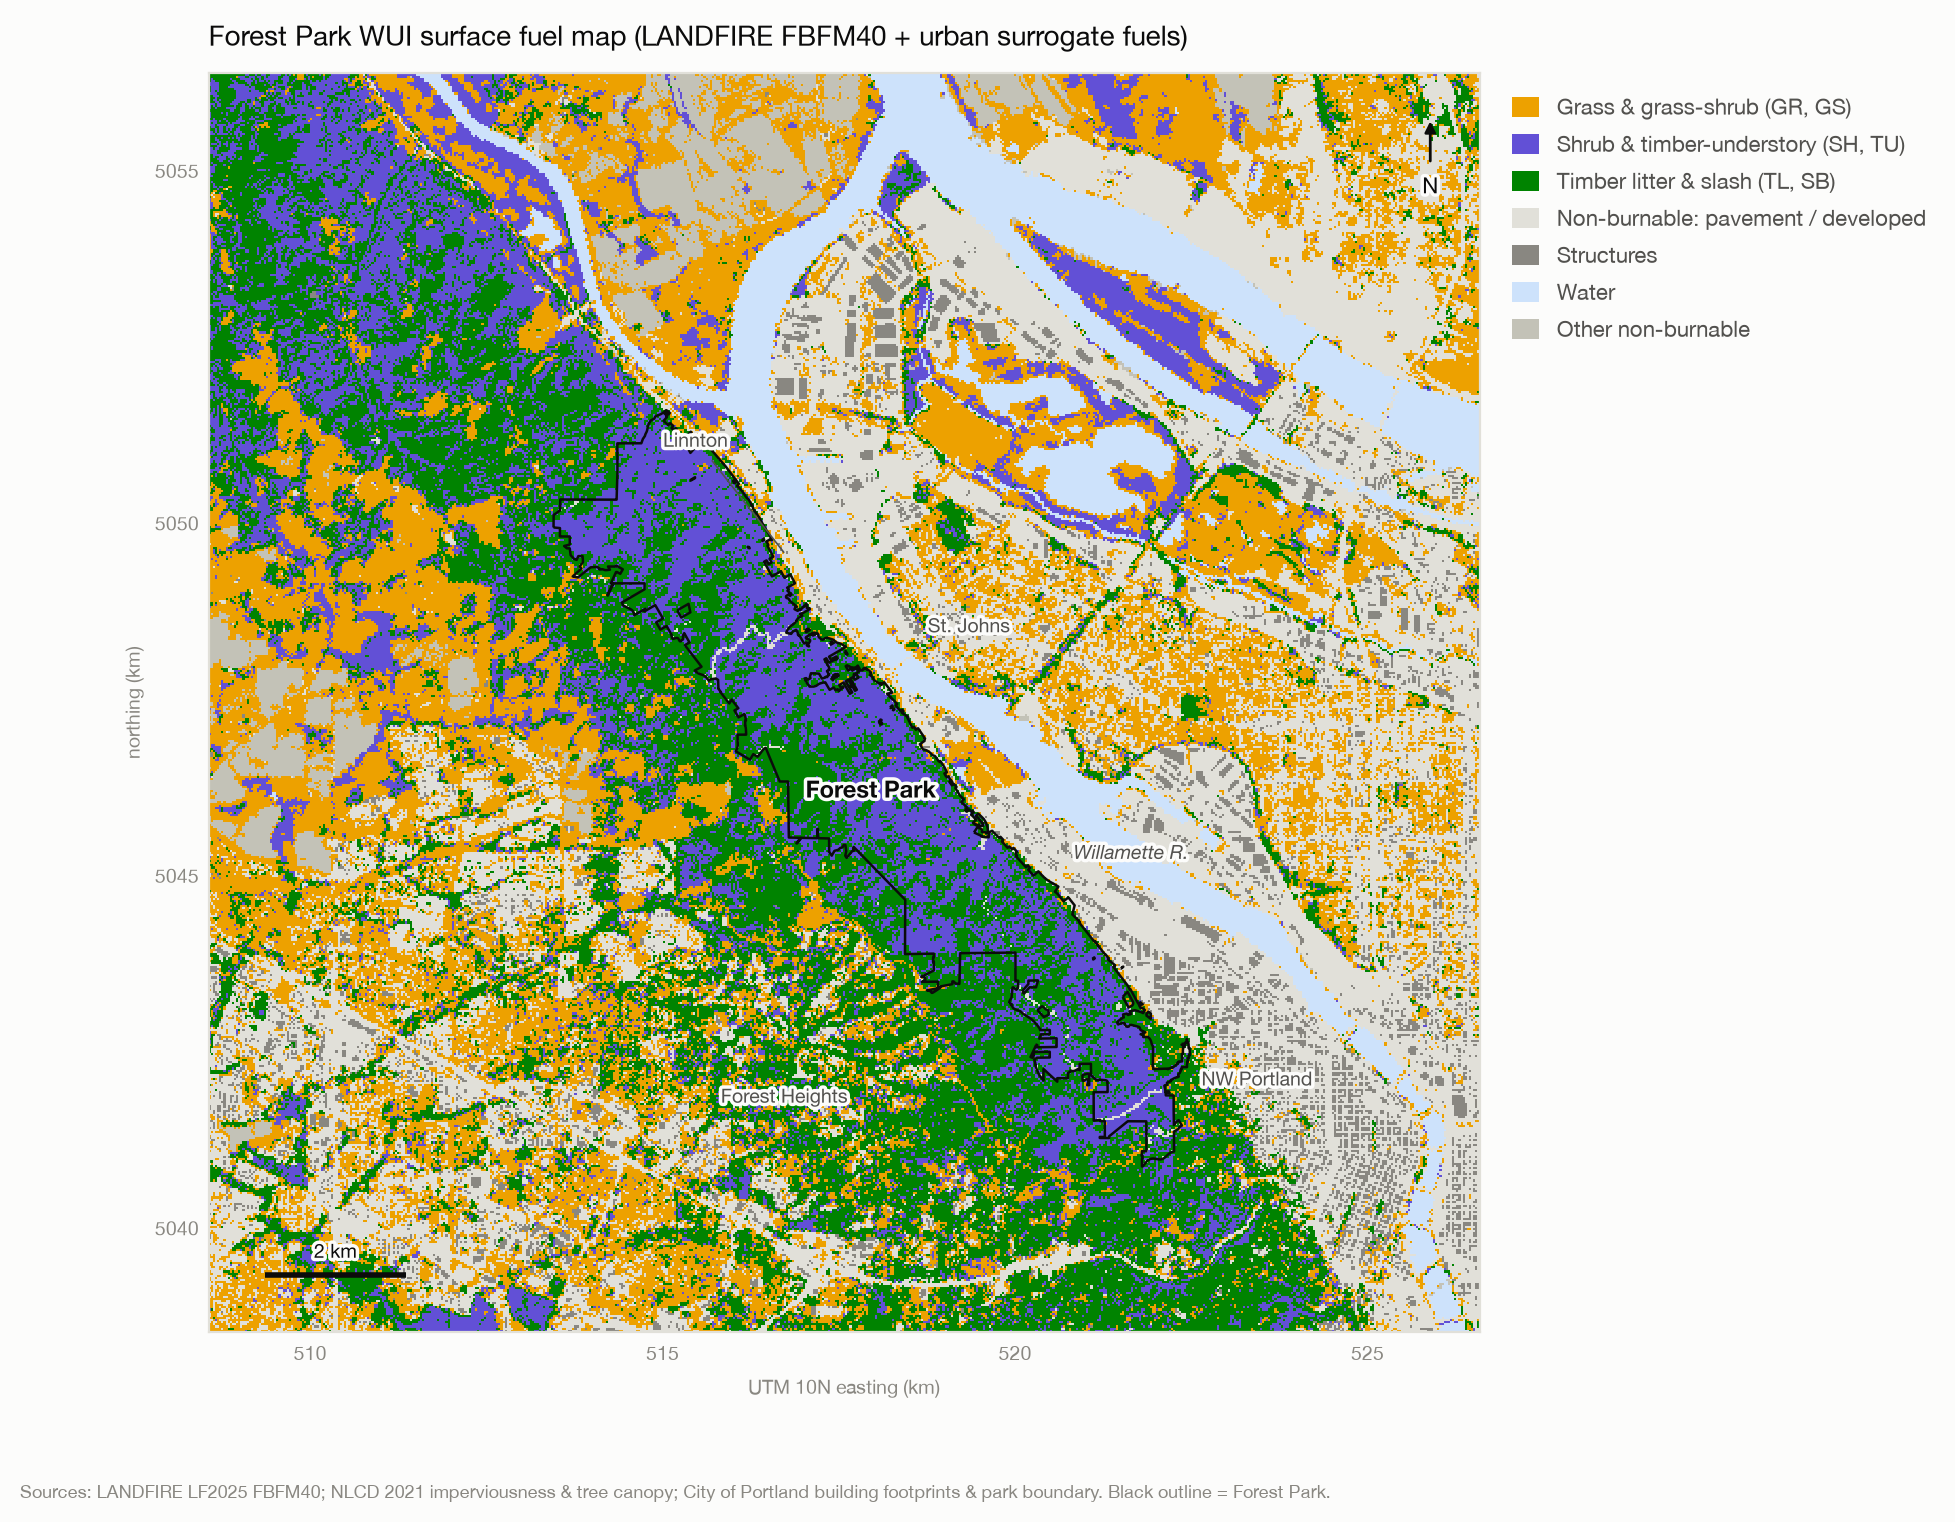
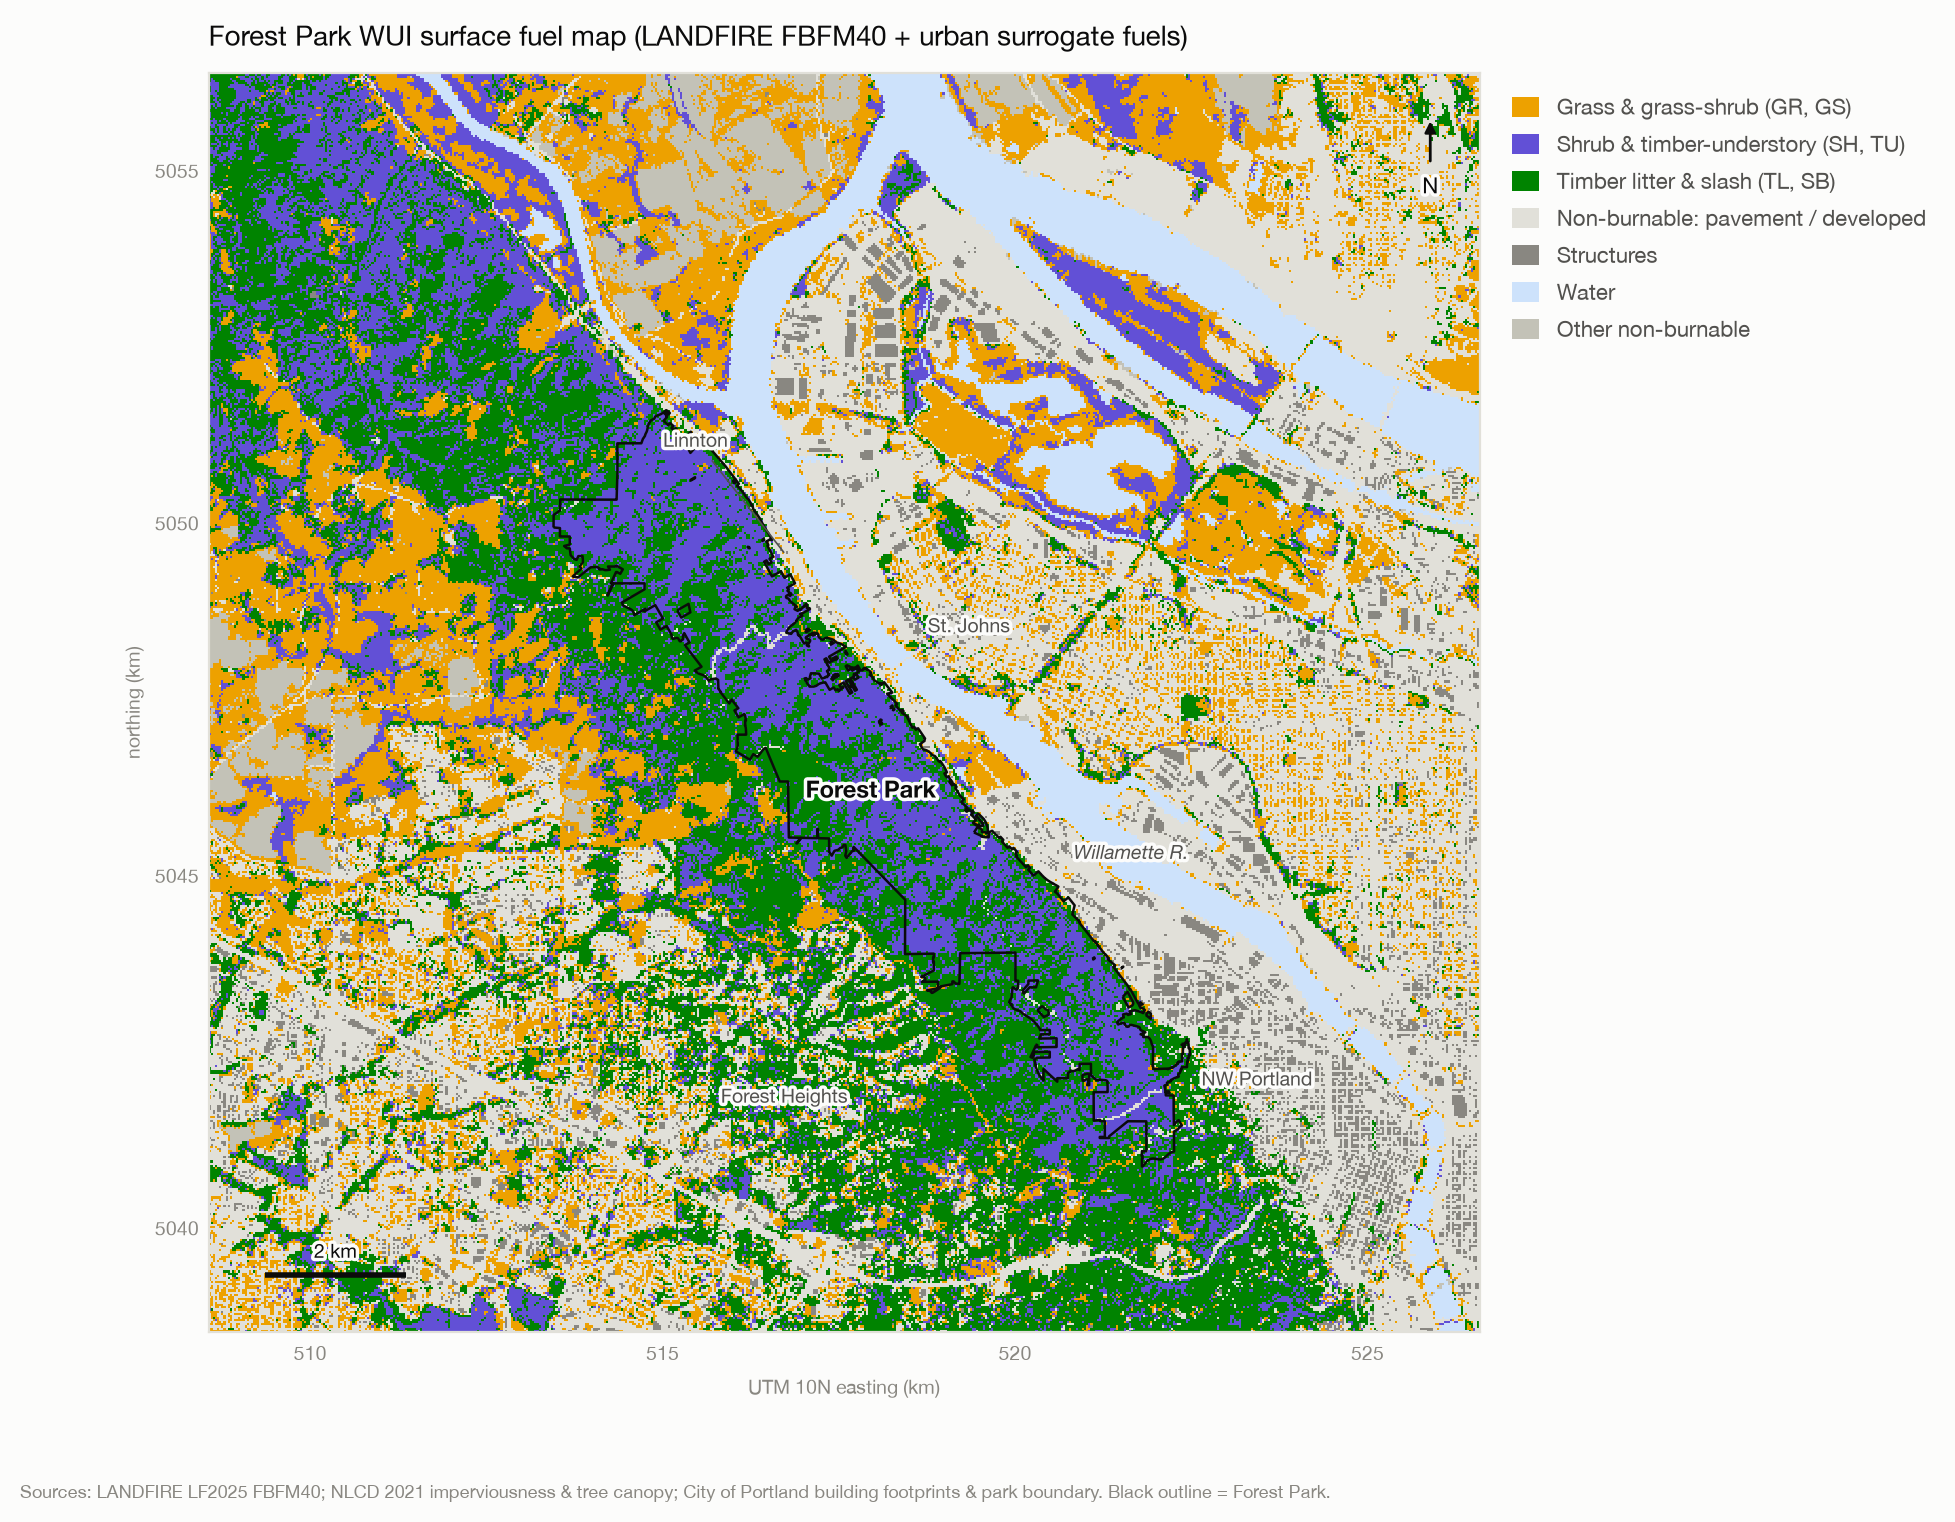
Forest Park Wildfires: fuel map v2 (road firebreaks, 10 m terrain) and progress log
- Open road cells (NLCD impervious descriptor) are now firebreaks instead of
  grass corridors; new before/after figure.
- USGS 3DEP elevation and slope figure; WRF-SFIRE ZSF export noted.
- Updated figures, numbers and rule table; dated progress log on the page.

diff --git a/projects/forest-park-wildfires/index.html b/projects/forest-park-wildfires/index.html
@@ -48,6 +48,25 @@
             how dry it has to be to burn. Before any fire can be simulated, the park and the city need that grid.</p>
         </div>
 
+        <div class="log" aria-labelledby="log-title">
+          <h3 id="log-title">Progress log</h3>
+          <ol class="log-list">
+            <li>
+              <span class="log-tag new">v2</span>
+              <time datetime="2026-11-04">4 Nov 2026</time>
+              <p><strong>Roads and terrain.</strong> Open road cells are now firebreaks instead of grass corridors
+                (<a href="#fig-roads">Figure 4</a>), which removed 1,848 ha of false fuel. Added 10 m USGS terrain,
+                slope and the elevation layer WRF-SFIRE needs for its fire grid (<a href="#fig-terrain">Figure 7</a>).</p>
+            </li>
+            <li>
+              <span class="log-tag">v1</span>
+              <time datetime="2026-11-04">4 Nov 2026</time>
+              <p><strong>First combined fuel map.</strong> LANDFIRE fuels in the park, stand-in fuels for the city from
+                pavement and tree canopy, building footprints, and the WRF-SFIRE fuel export.</p>
+            </li>
+          </ol>
+        </div>
+
         <div class="prose two-col">
           <div>
             <h3>The problem at the park's edge</h3>
@@ -64,10 +83,10 @@
         </div>
 
         <ul class="stats" aria-label="Summary figures">
-          <li><strong>12,216 → 19,544 ha</strong><span>Burnable area: LANDFIRE as published → adjusted map</span></li>
-          <li><strong>7,332 ha</strong><span>City cells given stand-in fuels</span></li>
+          <li><strong>12,216 → 17,696 ha</strong><span>Burnable area: LANDFIRE as published → adjusted map</span></li>
+          <li><strong>5,484 ha</strong><span>City cells given stand-in fuels</span></li>
+          <li><strong>1,848 ha</strong><span>Open road cells made firebreaks (v2)</span></li>
           <li><strong>101,211</strong><span>Building footprints mapped at 3 m</span></li>
-          <li><strong>601 × 595</strong><span>Grid cells at 30 m, about 18 × 18 km</span></li>
         </ul>
 
         <article class="fig" id="fig-fuel-map">
@@ -116,11 +135,35 @@
             <h3>What the urban rules changed</h3>
             <p>Only the cells that received a stand-in fuel are colored.</p>
             <ul>
-              <li>The thin yellow lines across the rural west are road cells that became grass. Roads should act more
-                like firebreaks, so this is the next thing to fix.</li>
+              <li>Green lines in the rural west are roads under tree canopy, which keep timber litter. Open, paved
+                road cells are firebreaks since v2 (Figure 4).</li>
+              <li>A few yellow lines remain where roads are less than 30% paved, such as gravel roads.</li>
               <li>Industrial land with little canopy, in Rivergate and the NW industrial district, also became grass.</li>
               <li>Dark grey blocks are cells that are mostly buildings.</li>
             </ul>
+          </div>
+        </article>
+
+        <article class="fig wide" id="fig-roads">
+          <figure>
+            <button type="button" class="zoom" data-full="img/roads_v1_vs_v2.png" aria-label="Enlarge: road fix, v1 and v2">
+              <img src="img/roads_v1_vs_v2.png" width="1615" height="1014" loading="lazy" alt="Two zoomed maps of the hills southwest of Forest Park. In v1 a network of road cells is grass; in v2 open road cells are non-burnable and roads under canopy stay timber litter.">
+            </button>
+          </figure>
+          <div class="fig-notes">
+            <p class="fig-num">Figure 4 · new in v2</p>
+            <h3>Fixing the roads</h3>
+            <p>A 4 × 4 km window southwest of the park, where the fix changed the most cells. In v1, partly paved road
+              cells with little canopy fell into the "open lots" rule and became a connected network of grass corridors
+              (yellow), which would carry fire along every street. The NLCD road layer now identifies them first:</p>
+            <ul>
+              <li><strong>Freeways</strong> (US-26, I-405) are always non-burnable.</li>
+              <li><strong>Other roads</strong> are non-burnable when at least 30% paved with under 40% tree canopy.</li>
+              <li><strong>Roads under canopy</strong> keep their stand-in fuel, because overhanging trees and yards in
+                the same 30 m cell still carry fire.</li>
+            </ul>
+            <p>A first attempt made every paved street a firebreak. That turned 6,605 ha of the residential grid
+              non-burnable and isolated every block, so I narrowed it to open roads.</p>
           </div>
         </article>
 
@@ -131,11 +174,11 @@
             </button>
           </figure>
           <div class="fig-notes">
-            <p class="fig-num">Figure 4</p>
+            <p class="fig-num">Figure 5</p>
             <h3>Fuel-model families</h3>
-            <p>One panel per Scott &amp; Burgan family shows the detail behind the three map colors. Grass (36%),
-              timber litter (34%) and timber-understory (25%) make up nearly all the burnable area. Shrub and slash
-              fuels are almost absent.</p>
+            <p>One panel per Scott &amp; Burgan family shows the detail behind the three map colors. Timber litter (38%),
+              grass (30%) and timber-understory (27%) make up most of the burnable area, with grass-shrub at 5%.
+              Shrub and slash fuels are almost absent.</p>
           </div>
         </article>
 
@@ -146,43 +189,62 @@
             </button>
           </figure>
           <div class="fig-notes">
-            <p class="fig-num">Figure 5</p>
+            <p class="fig-num">Figure 6</p>
             <h3>What the rules are based on</h3>
             <p>Pavement and tree canopy from the National Land Cover Database decide each city cell's stand-in fuel.
               Building cover, from City of Portland footprints, decides which cells stay non-burnable.</p>
           </div>
         </article>
 
-        <article class="fig" id="fig-anderson">
+        <article class="fig wide" id="fig-terrain">
           <figure>
-            <button type="button" class="zoom" data-full="img/anderson13_area.png" aria-label="Enlarge: WRF-SFIRE fuel categories">
-              <img src="img/anderson13_area.png" width="1350" height="763" loading="lazy" alt="Bar chart of area by Anderson 13 fuel category: no fuel 12,639 ha; closed timber litter 6,394; short grass 4,621; hardwood litter 2,906; timber grass and understory 2,793; timber litter and understory 1,966; brush 865.">
+            <button type="button" class="zoom" data-full="img/terrain_elevation_slope.png" aria-label="Enlarge: terrain">
+              <img src="img/terrain_elevation_slope.png" width="1990" height="1042" loading="lazy" alt="Two maps: elevation with shaded relief, and slope in degrees. The Tualatin Mountains ridge runs northwest to southeast through Forest Park, with steep ravines on the river side.">
             </button>
           </figure>
           <div class="fig-notes">
-            <p class="fig-num">Figure 6</p>
+            <p class="fig-num">Figure 7 · new in v2</p>
+            <h3>Terrain</h3>
+            <p>Fire runs faster uphill, so the model needs the ground shape as well as the fuel. Forest Park sits on the
+              ridge of the Tualatin Mountains, from 12 m at the river to 339 m at the crest. Slopes inside the park have
+              a median of 19°, and the steepest 10% exceed 29°, mostly in the ravines facing the Willamette.</p>
+            <p>Elevation comes from the USGS 3DEP 10 m dataset and is exported as WRF-SFIRE's fire-grid terrain
+              layer (<code>ZSF</code>).</p>
+          </div>
+        </article>
+
+        <article class="fig" id="fig-anderson">
+          <figure>
+            <button type="button" class="zoom" data-full="img/anderson13_area.png" aria-label="Enlarge: WRF-SFIRE fuel categories">
+              <img src="img/anderson13_area.png" width="1350" height="763" loading="lazy" alt="Bar chart of area by Anderson 13 fuel category: no fuel 14,487 ha; closed timber litter 6,388; hardwood litter 2,906; timber grass and understory 2,791; short grass 2,780; timber litter and understory 1,966; brush 865.">
+            </button>
+          </figure>
+          <div class="fig-notes">
+            <p class="fig-num">Figure 8</p>
             <h3>Ready for WRF-SFIRE</h3>
             <p>WRF-SFIRE uses the older 13 Anderson fuel models, so the map is also exported in that system,
-              in the binary format its preprocessing step (WPS geogrid) reads. Category 14 means "no fuel".</p>
+              in the binary format its preprocessing step (WPS geogrid) reads, together with the 10 m terrain.
+              Category 14 means "no fuel".</p>
           </div>
         </article>
 
         <div class="two-col">
           <div class="prose">
             <h3>How city cells were assigned</h3>
-            <p>Each developed cell outside the park takes the first rule it matches.</p>
+            <p>Each developed cell outside the park takes the first rule it matches. Road cells are checked first (v2).</p>
             <div class="table-wrap">
               <table>
                 <thead>
                   <tr><th scope="col">Paved</th><th scope="col">Canopy</th><th scope="col">Fuel model</th><th scope="col" class="r">Area (ha)</th></tr>
                 </thead>
                 <tbody>
+                  <tr><td colspan="3">Open road cell (freeway, or ≥ 30% paved with &lt; 40% canopy) → non-burnable</td><td class="r">1,848.1</td></tr>
                   <tr><td>≥ 60%</td><td>any</td><td>Non-burnable (NB1)</td><td class="r">7,928.9</td></tr>
-                  <tr><td>30–60%</td><td>≥ 40%</td><td>Low-load conifer litter (TL1)</td><td class="r">1,274.2</td></tr>
-                  <tr><td>30–60%</td><td>&lt; 40%</td><td>Short sparse grass (GR1)</td><td class="r">4,089.3</td></tr>
-                  <tr><td>&lt; 30%</td><td>≥ 50%</td><td>Moderate conifer litter (TL3)</td><td class="r">732.3</td></tr>
-                  <tr><td>&lt; 30%</td><td>20–50%</td><td>Timber-grass-shrub (TU1)</td><td class="r">705.0</td></tr>
-                  <tr><td>&lt; 30%</td><td>&lt; 20%</td><td>Low-load grass (GR2)</td><td class="r">531.5</td></tr>
+                  <tr><td>30–60%</td><td>≥ 40%</td><td>Low-load conifer litter (TL1)</td><td class="r">1,269.9</td></tr>
+                  <tr><td>30–60%</td><td>&lt; 40%</td><td>Short sparse grass (GR1)</td><td class="r">2,250.1</td></tr>
+                  <tr><td>&lt; 30%</td><td>≥ 50%</td><td>Moderate conifer litter (TL3)</td><td class="r">730.6</td></tr>
+                  <tr><td>&lt; 30%</td><td>20–50%</td><td>Timber-grass-shrub (TU1)</td><td class="r">703.4</td></tr>
+                  <tr><td>&lt; 30%</td><td>&lt; 20%</td><td>Low-load grass (GR2)</td><td class="r">530.3</td></tr>
                   <tr><td colspan="3">Building cover ≥ 50% → non-burnable</td><td class="r">1,130.4</td></tr>
                 </tbody>
               </table>
@@ -193,10 +255,11 @@
             <ul>
               <li><strong>The urban rules are a first pass.</strong> The thresholds are working assumptions and still
                 need to be calibrated against field data and published WUI fuel studies.</li>
-              <li><strong>Roads become grass.</strong> Road cells will be separated out and treated as firebreaks.</li>
+              <li><strong>Roads as firebreaks are an assumption.</strong> A paved road stops a surface fire, but
+                wind-driven fires throw embers across roads, which this map can't represent.</li>
+              <li><strong>Gravel and narrow roads</strong> (under 30% paved) still follow the yard rules.</li>
               <li><strong>Surface fuels only.</strong> WRF-SFIRE spreads fire through vegetation. It doesn't model
                 houses igniting each other or embers, which cause most home losses in urban fires.</li>
-              <li><strong>No terrain yet.</strong> High-resolution elevation for the fire grid is the next layer to add.</li>
             </ul>
           </div>
         </div>
@@ -205,7 +268,8 @@
 
     <footer class="site-footer">
       Data: LANDFIRE LF2025 fuel models FBFM40 and FBFM13 (U.S. Forest Service / USGS); National Land Cover Database
-      2021 land cover, imperviousness and tree canopy (MRLC); City of Portland Open Data building footprints and park
+      2021 land cover, imperviousness, impervious descriptor (roads) and tree canopy (MRLC); USGS 3DEP 1/3 arc-second
+      elevation; City of Portland Open Data building footprints and park
       boundary. Fuel models: Scott &amp; Burgan (2005), Anderson (1982). Maps and analysis by Acamaro Cutcher.
     </footer>
   </div>

diff --git a/projects/forest-park-wildfires/style.css b/projects/forest-park-wildfires/style.css
@@ -186,3 +186,26 @@ dialog img { display: block; max-width: 96vw; max-height: 86vh; width: auto; hei
 @media (prefers-reduced-motion: no-preference) {
   html { scroll-behavior: smooth; }
 }
+
+/* ---------- progress log ---------- */
+.log {
+  display: grid; gap: 12px; background: var(--surface-1); border: 1px solid var(--border);
+  border-radius: 12px; padding: 18px 20px;
+}
+.log-list { list-style: none; margin: 0; padding: 0; display: grid; gap: 12px; }
+.log-list li {
+  display: grid; grid-template-columns: auto auto 1fr; gap: 4px 12px; align-items: baseline;
+}
+.log-list p { grid-column: 3; max-width: 70ch; color: var(--text-secondary); }
+.log-list p strong { color: var(--text-primary); }
+.log-list time { font-size: 13px; color: var(--text-muted); white-space: nowrap; font-variant-numeric: tabular-nums; }
+.log-tag {
+  font-size: 12px; font-weight: 700; padding: 1px 8px; border-radius: 999px;
+  background: var(--wash); color: var(--text-secondary);
+}
+.log-tag.new { background: var(--done-bg); color: var(--accent); }
+code { font: 0.9em ui-monospace, "SF Mono", Menlo, monospace; background: var(--wash); padding: 1px 5px; border-radius: 4px; }
+@media (max-width: 600px) {
+  .log-list li { grid-template-columns: auto 1fr; }
+  .log-list p { grid-column: 1 / -1; }
+}

diff --git a/projects/catalog.js b/projects/catalog.js
@@ -37,8 +37,8 @@ window.PROJECT_LIBRARY = {
       title: 'Forest Park Wildfires',
       summary: 'How could a fire in Portland’s Forest Park spread into the neighborhoods around it? The first section ' +
         'builds a 30 m wildland–urban fuel map: LANDFIRE fuels inside the park, and stand-in surface fuels for the city ' +
-        'from land-cover imperviousness, tree canopy and 101,211 building footprints, exported for the WRF-SFIRE ' +
-        'fire–atmosphere model. Fire-spread simulations come next.',
+        'from land-cover imperviousness, tree canopy, roads and 101,211 building footprints, plus 10 m terrain, ' +
+        'exported for the WRF-SFIRE fire–atmosphere model. Fire-spread simulations come next.',
       disciplines: ['earth'],
       types: ['research'],
       status: 'current',
